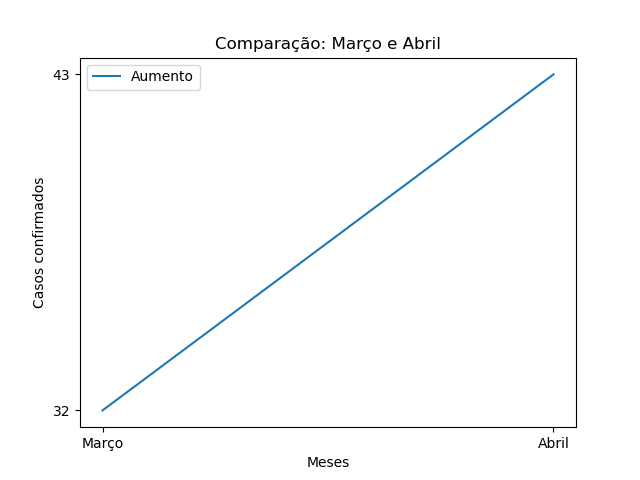
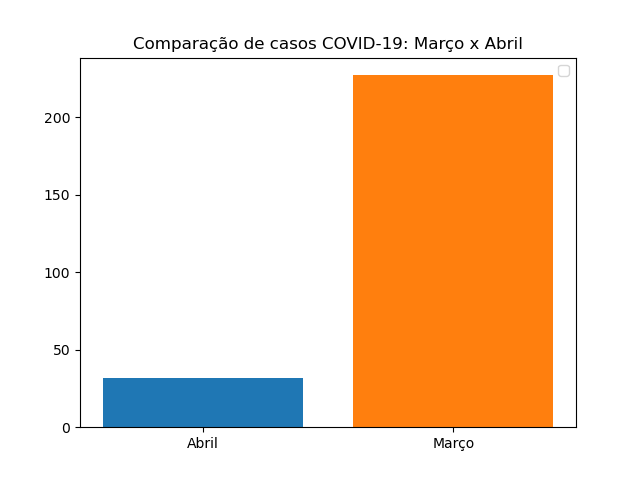
Mudança de gráfico

diff --git a/COVID-19 Março x abril/Marco-x-abril.py b/COVID-19 Março x abril/Marco-x-abril.py
@@ -1,17 +1,18 @@
 import matplotlib.pyplot as plt 
 
-meses = ["Março","Abril"]
-casos = ["32","43"]
+Marco = ["Março"]
+Abril = ["Abril"]
 
-titulo = "Comparação: Março e Abril"
-EixoX = "Meses"
-EixoY = "Casos confirmados"
+casosMarco = [227]
+casosAbril = [32]
+
+titulo = "Comparação de casos COVID-19: Março x Abril"
+
 
 plt.title(titulo)
-plt.xlabel(EixoX)
-plt.ylabel(EixoY)
 
-plt.plot(meses,casos, label = "Aumento")
+plt.bar(Abril,casosAbril)
+plt.bar(Marco,casosMarco)
+
 plt.legend()
 plt.show()
-
